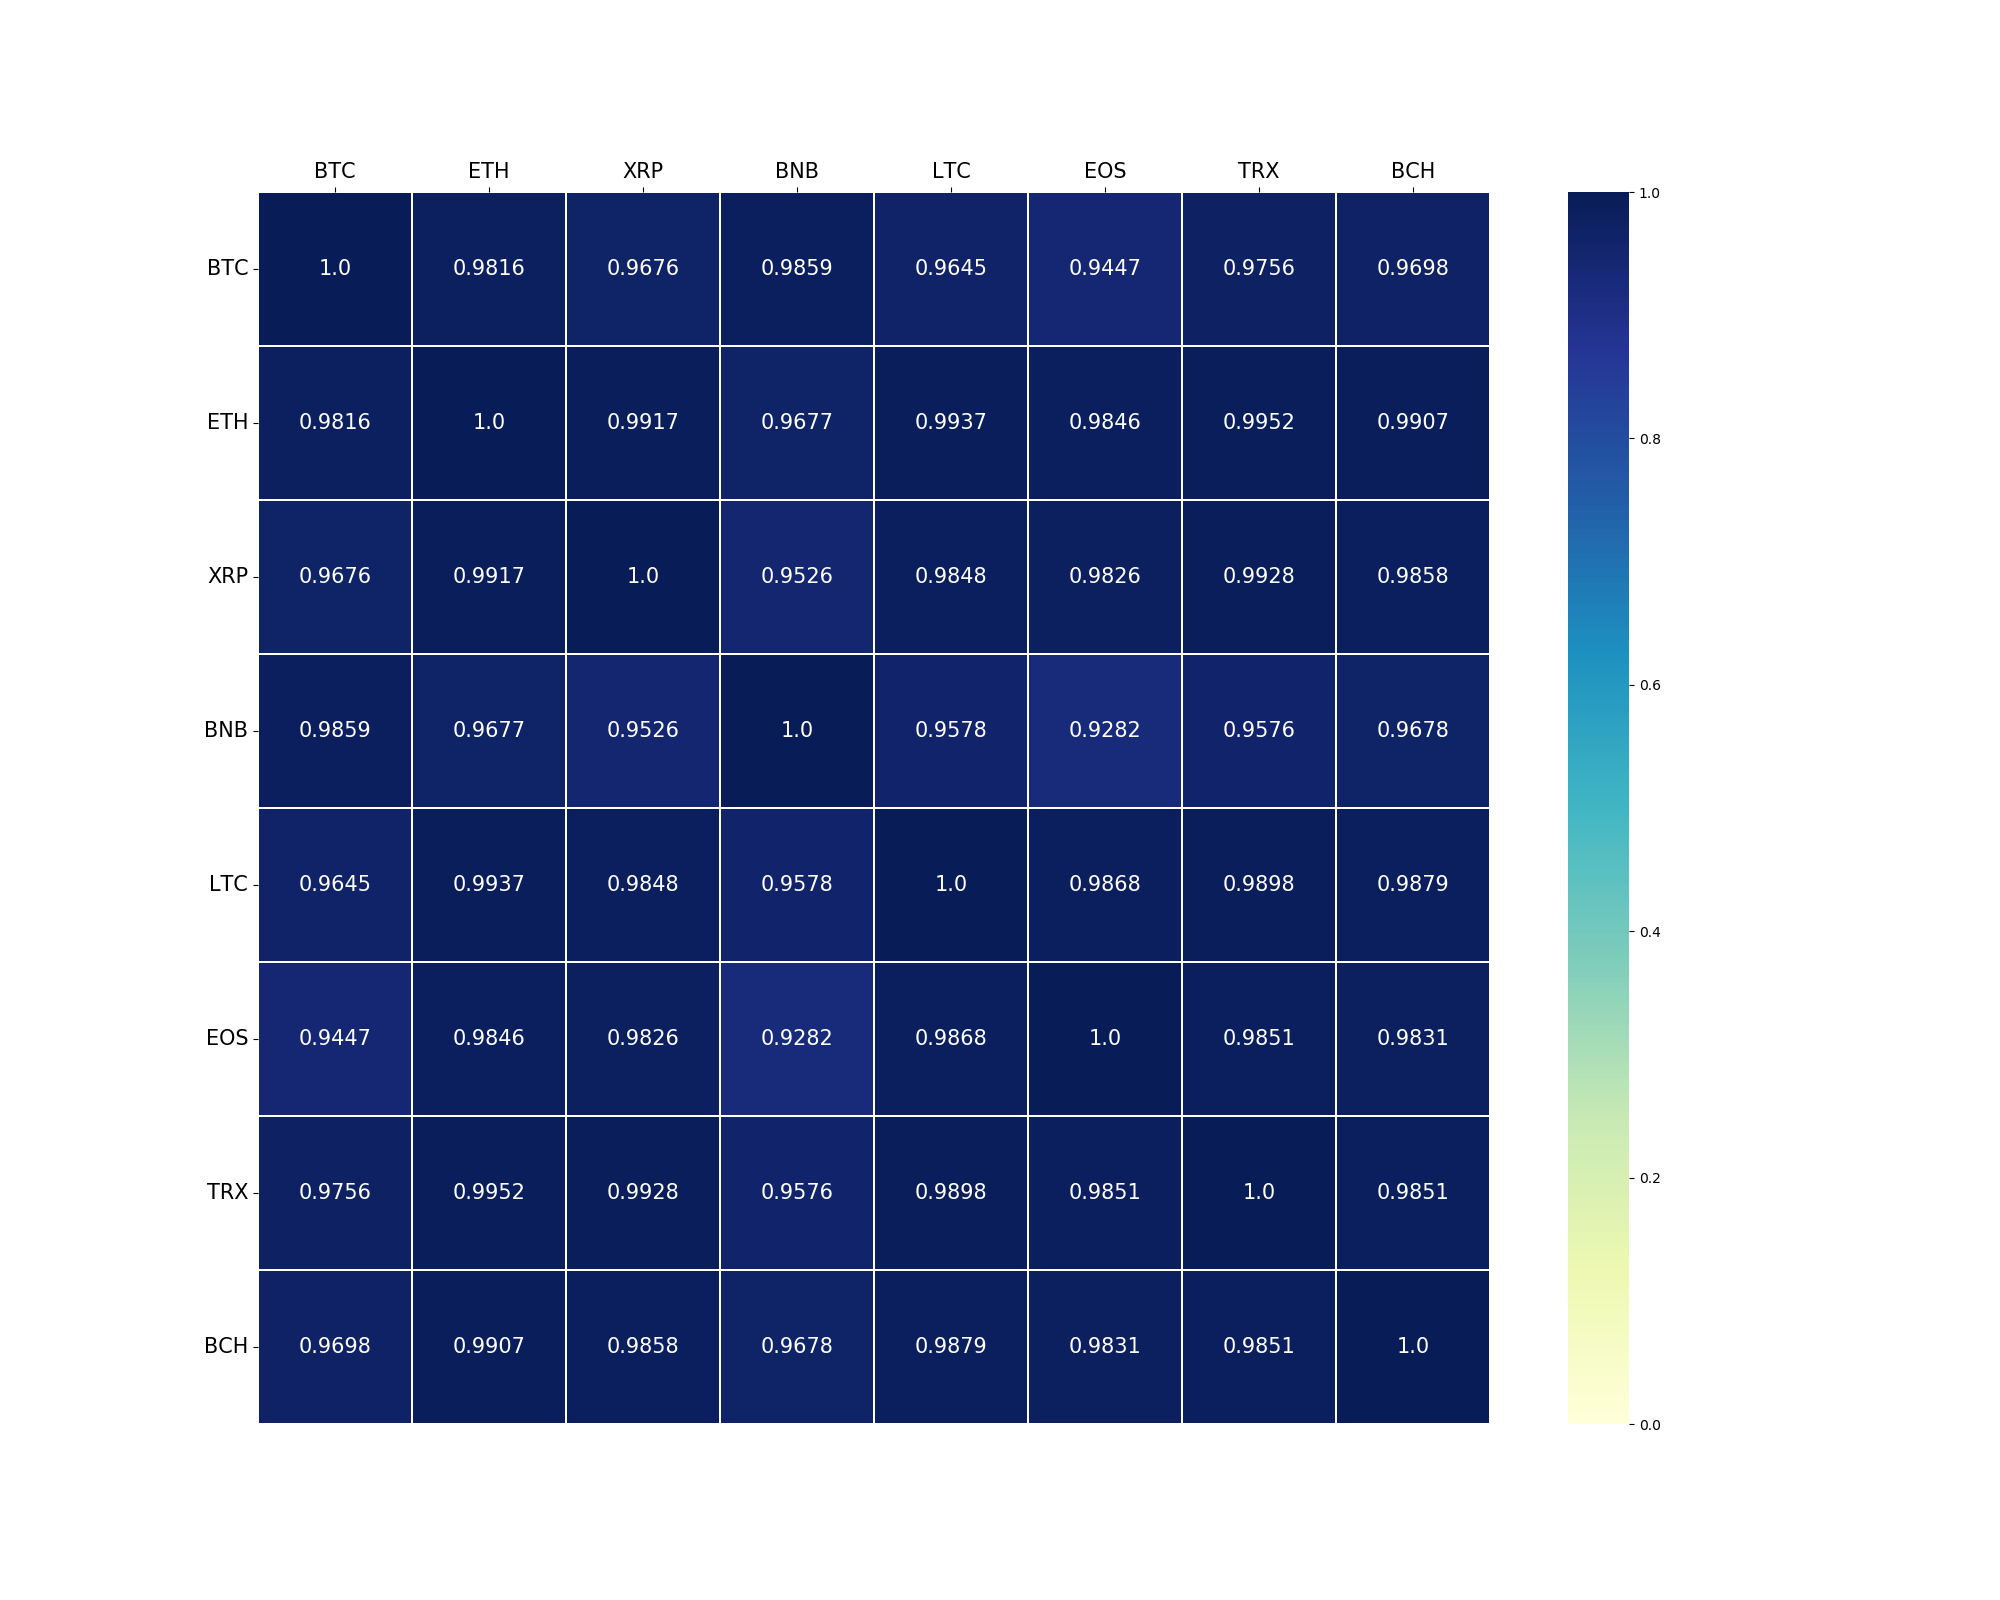
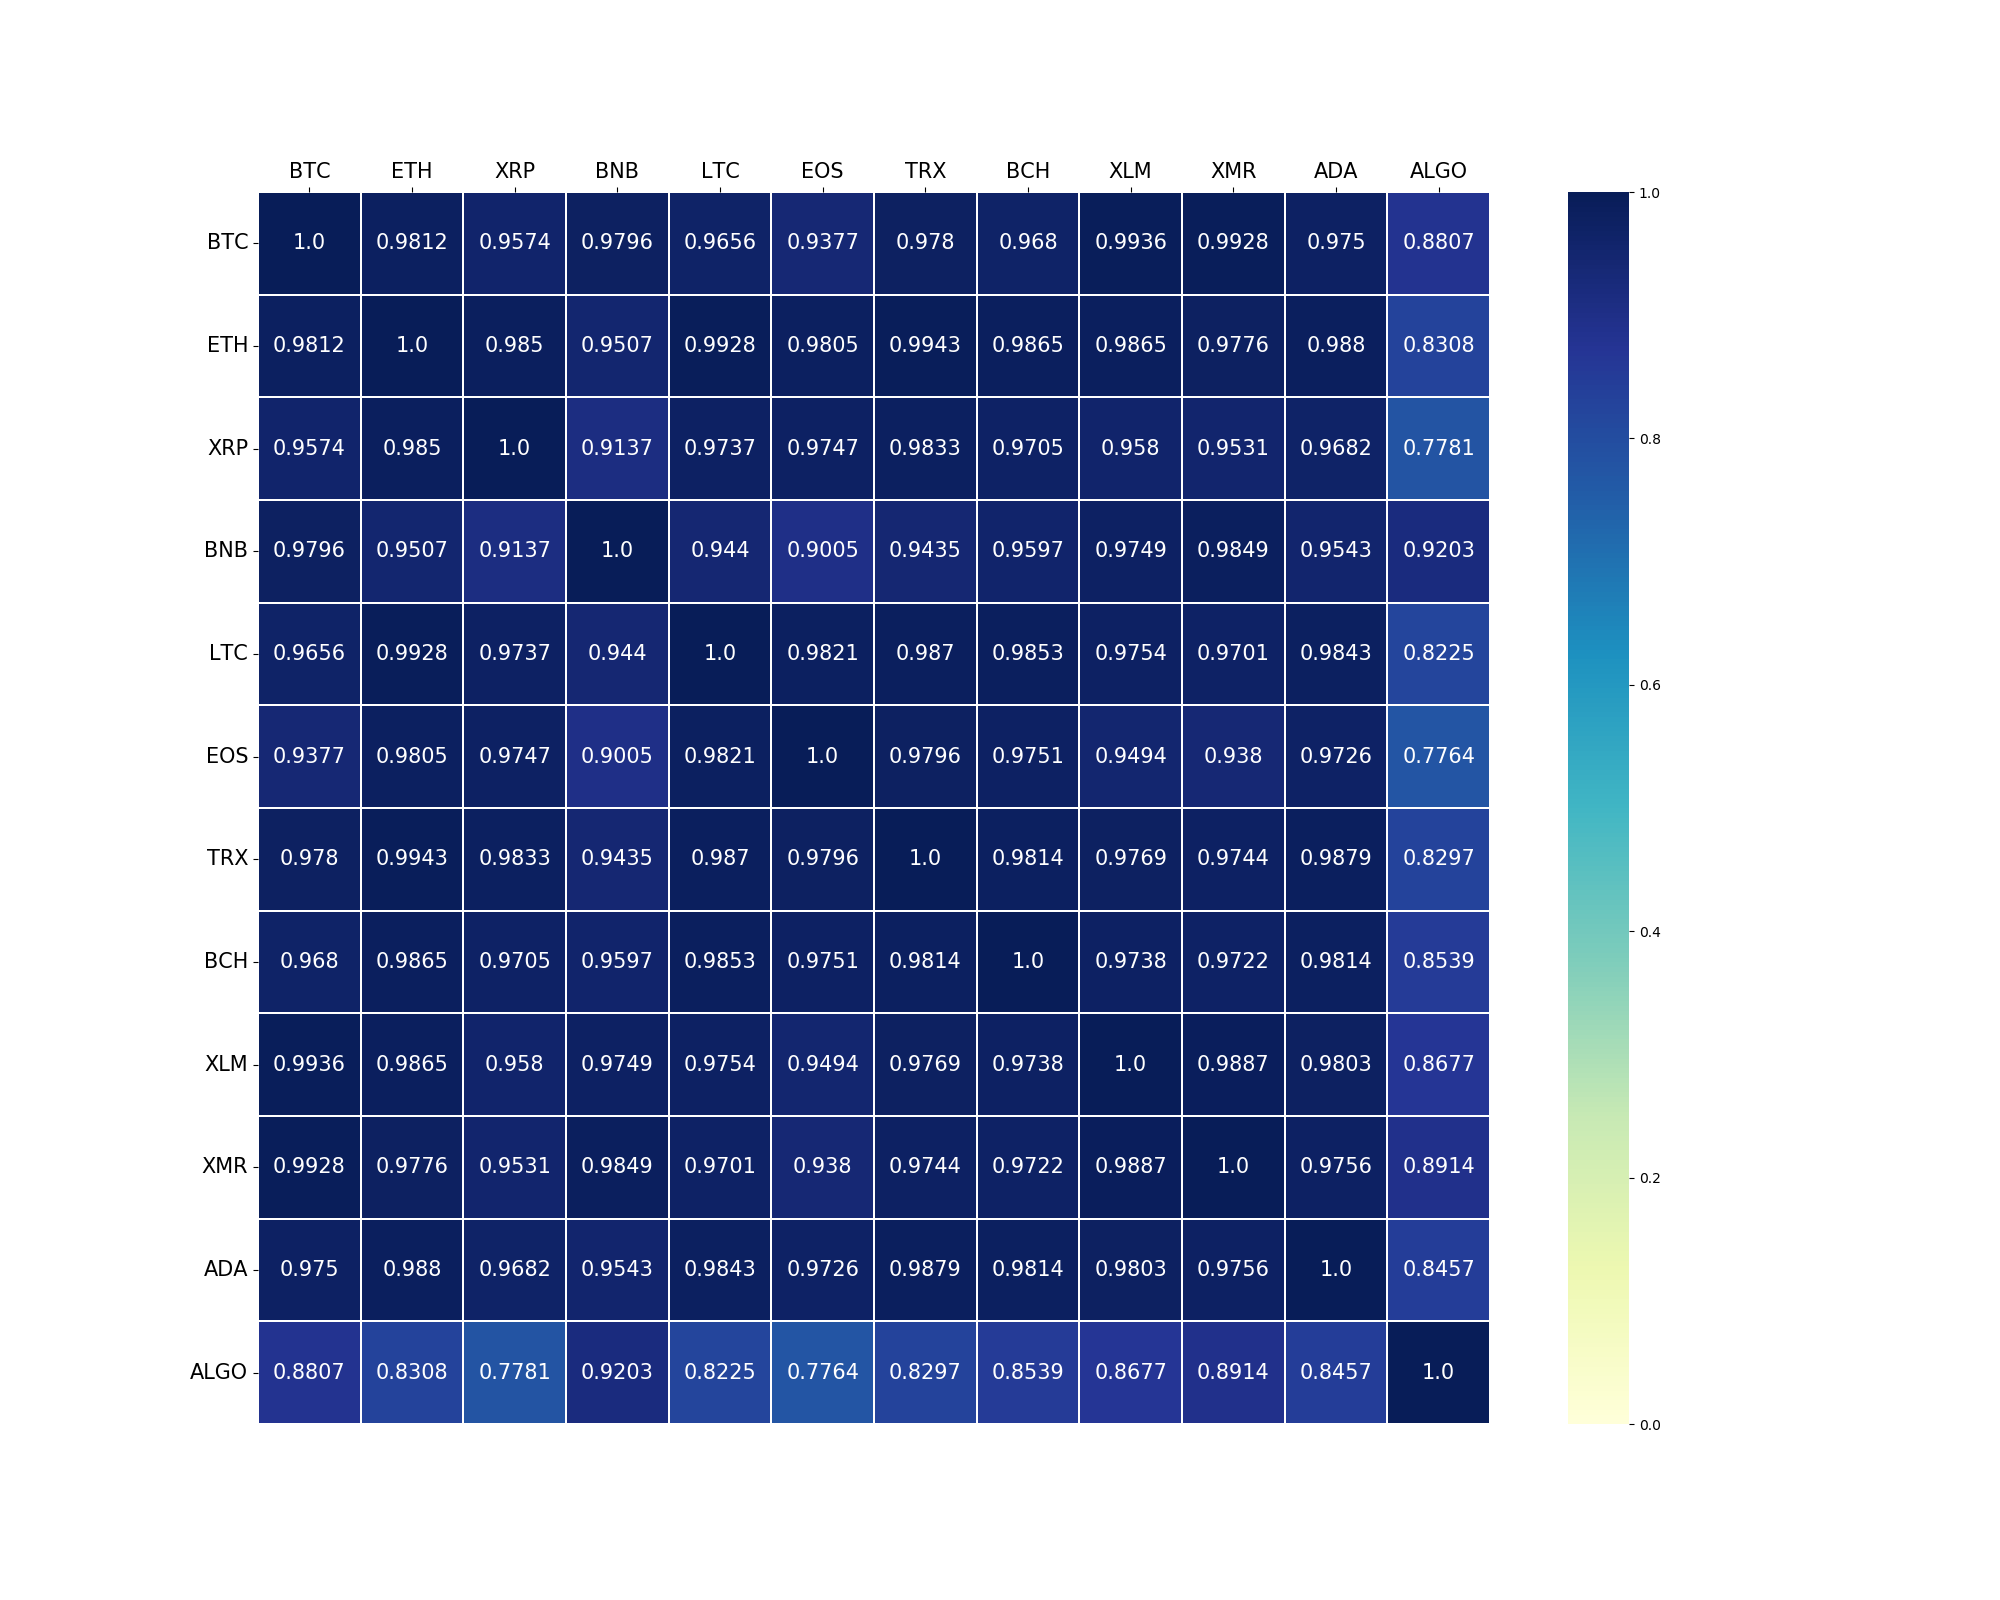
added 4 for coins

diff --git a/final1/views.py b/final1/views.py
@@ -125,13 +125,6 @@ def output(request):
     ADA_df = ADA_df.apply(pd.to_numeric)
     ALGO_df = ALGO_df.apply(pd.to_numeric)
 
-    # concatenation of the 'close' price columns into one
-    data1 = pd.concat(
-        [BTC_df['Close'], ETH_df['Close'], XRP_df['Close'], BNB_df['Close'], LTC_df['Close'], EOS_df['Close'],
-         TRX_df['Close'], BCH_df['Close']], axis=1)
-    # naming of the columns in the new panda dataframe named 'data'
-    data1.columns = ['BTC', 'ETH', 'XRP', 'BNB', 'LTC', 'EOS', 'TRX', 'BCH']
-
     # normalizes the dataframes
     BTC_df = (BTC_df - BTC_df.mean()) / (BTC_df.max() - BTC_df.min())
     ETH_df = (ETH_df - ETH_df.mean()) / (ETH_df.max() - ETH_df.min())

diff --git a/final1/settings.py b/final1/settings.py
@@ -120,8 +120,9 @@ USE_TZ = True
 
 STATIC_URL = '/static/'
 #PROJECT_ROOT = os.path.dirname(os.path.abspath(__file__))
-STATIC_ROOT = os.path.join(BASE_DIR, '/static/')
+STATIC_ROOT = os.path.join(BASE_DIR, "static")
 STATICFILES_DIR =(
-    os.path.join(BASE_DIR, '/static/')
+    os.path.join(BASE_DIR, "static"),
+    '/home/ubuntu/final1/final1/static/',
 )
 
